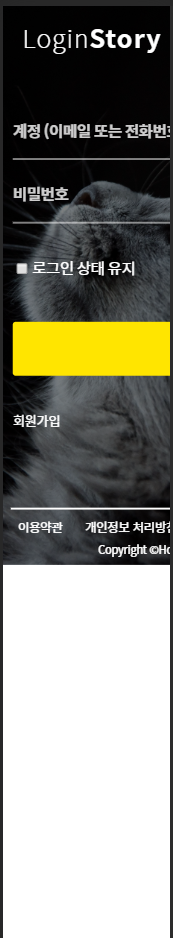
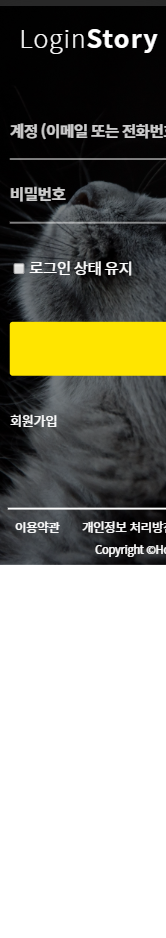
이미지 리소스 수정

diff --git a/css/layout.css b/css/layout.css
@@ -47,7 +47,7 @@ button:focus {
   z-index: -1;
 }
 .background_wrapper {
-  background: url("https://github.com/ineggapps/java-2020-web-project/blob/master/WebContent/hw_benchmark/images/cat-4977436_1920.jpg?raw=true")
+  background: url("https://github.com/ineggapps/html5-css3-benchmarking/blob/master/images/cat-4977436_1920.jpg?raw=true")
     center 0%;
   background-size: cover;
 }
